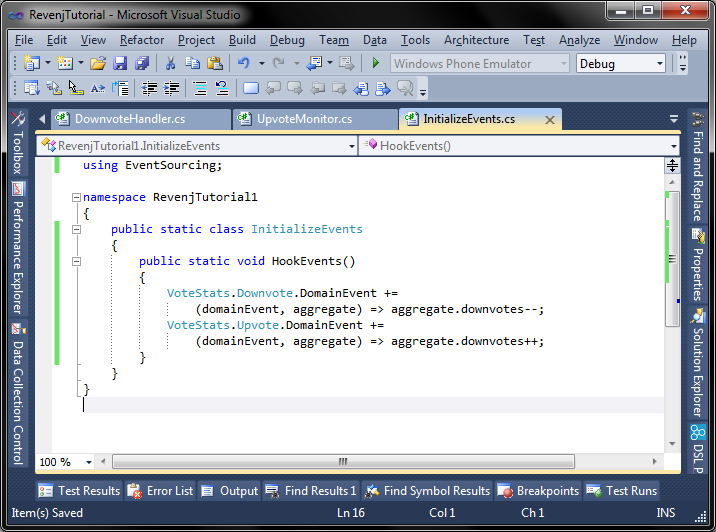
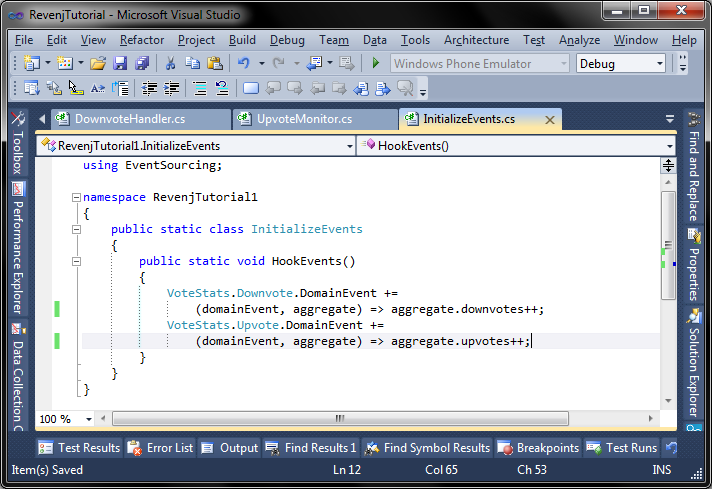
Aggregate events tutorial.
How to use aggregate events in Revenj.
This concludes event sourcing tutorials.

Changed region(s): [[0.0, 0.0, 1.0, 1.0], [0.0927, 0.7055, 0.1236, 0.7975]]

diff --git a/tutorials/revenj-tutorial-aggregate-events.md b/tutorials/revenj-tutorial-aggregate-events.md
@@ -1,0 +1,82 @@
+## Event sourcing with aggregate events
+
+In previous event sourcing [tutorial](revenj-tutorial-event-sourcing.md), we've explored domain events in Revenj/DSL Platform. There is also a special kind of domain event, which is tied to an aggregate. Due to still ongoing research, its DSL representation will probably change and those two separate concepts will probably end up with a same grammar. 
+
+###Aggregate events in DSL
+
+But let's explore the current usage to understand the features they offer and how to implement it. We'll write DSL similar to the previous one.
+
+    module EventSourcing {
+      aggregate VoteStats(topic) {
+        string topic;
+        int upvotes;
+        int downvotes;
+      }
+      event VoteStats.Upvote {
+        async;
+      }
+      event VoteStats.Downvote;
+    }
+
+An interesting difference is that previous events had a field by which they identified related aggregate (`string(200) topic`), while here they are defined for some aggregate. As such they will have additional special field in database and .NET class. Let's take a look at the database:
+
+![Aggregate domain event in Postgres](pictures/aggregate-events-postgres.png)
+
+We will see same fields as before, a name matching the DSL and an additional *aggregate\_uri* field. This is identity of the referenced aggregate root. While we could use actual primary key and referenced the aggregate, basic premise behind events is that they are immutable once created. Even if we delete the referencing aggregate from the system we still want events "referencing" that aggregate to remain. Thus, referential integrity is somewhat relaxed which could be improved slightly in the future, but for now it's like this.
+
+###Handling aggregate events in code
+
+.NET classes are nested inside aggregate and code for previous tutorial will still work, after we rename *Upvote* and *Downvote* to *VoteStats.Upvote* and *VoteStats.Downvote*. But those event handlers are stateful, in a sense they can reference services and change the state of the database (as the current implementation does). If we want to have an domain event which can be replayed, we need to have a "handler" which only affects referenced aggregate root.
+While there is no way to enforce such a constraint in an imperative language, in practice this means that we need to define replayable event handler differently:
+
+![Replayable event handler](pictures/hooking-up-events.png)
+
+To get this working we need to initialize it during application startup. An interesting effect will happen now that we have one async and one synchronous event.
+
+###How everything works together
+
+Since upvote is asynchronous, aggregate root will not be updated in the database, but new events will be created in it. Also, database view *unprocessed event* for that aggregate will now look like:
+
+![Unprocessed events in Postgres](pictures/unprocessed-events.png)
+
+This will be used to fully reconstruct aggregate to its current state if we load it by identity. In practice this means that `IRepository<VoteStats>` `Find` method will do a database query for requested aggregates joining with all unprocessed events and reconstruct aggregate by replaying all unprocessed events on it. This is hidden away in auto-maintained repository (more glue code which the developer doesn't need to write). All he needs to do is hook-up event handler as described above. It's also interesting to see how object-relational features of Postgres are utilized, where only one query is sent to the database, regardless of how many aggregate events exists. This makes it very performant, while complexity to the developer is not increased.
+
+**Note: Currently `Query` API for *VoteStats* will not reconstruct *VoteStats* fully, but will just use current snapshot in the database.**
+
+Since downvote event is synchronous, our previous handler suffers from same problems as before (concurrency), but had a nice side-effect. Invoking a synchronous event will flush all unprocessed asynchronous events to the database. This doesn't have to do much with the Revenj, as it has to do with the current repository implementation DSL Platform provides.
+
+In the end, developers can choose how they want to model the domain; repository implementation is just the reflection of the current model, which does all the heavy lifting, while running on top of Revenj.
+
+As stated before, DSL Platform is all about providing best-patterns implementation. With better understanding of events, aggregate events, requirements for the repositories, we expect somewhere down the line to have a merger of events with aggregate events, at least on the DSL level.
+
+###Trying it out
+
+So let's write some code to see how this behaves in practice. Instead of consuming it as REST service, let's add some test and work directly on the server:
+
+![Adding test project](pictures/test-project-events.png)
+
+We'll also use a Revenj-core which is somewhat optimized for use as a library:
+
+![Downloading Revenj core](pictures/revenj-core.png)
+
+Let's hook up everything in test project:
+
+![Downloading Revenj core](pictures/test-project-events.png)
+
+We should add reference to the `RevenjTutorial` project, `Revenj.Core` in dependencies/Server, `NGS.DomainPatterns.Interface` to access the signatures, generated model and we should be ready to go. Let's write a test which will initialize the Revenj instance, hook up our aggregate event handlers, create an aggregate and apply two async events on it. Let's also write an extension method to ease the use of API somewhat, at the end of the test. We should have something like this:
+
+![Aggregate event test](pictures/testing-aggregate-events.png)
+ 
+We can see that the `Find` method will fully reconstruct the aggregate, while the `Query` method will see the snapshot in the database. Let's see how this looks in [PgAdmin](http://www.pgadmin.org/):
+
+![Aggregate event in PgAdmin](pictures/pgadmin-aggregate-events.png)
+
+We see our snapshot version in the database, and two unprocessed events created per aggregate. If we add a downvote event to our test and check it again, we will now see that snapshot is up to date, since downvote event is not asynchronous and while processing it also marked previous events as processed.
+
+![Executing synchronous event](pictures/downvote-and-sync.png)
+
+If we check the database we'll see up-to-date info:
+
+![Up-to-date database](pictures/up-to-date-database-event.png)
+
+This should get us started on using aggregate events in Revenj.

diff --git a/tutorials/revenj-tutorial-event-sourcing.md b/tutorials/revenj-tutorial-event-sourcing.md
@@ -92,13 +92,14 @@ Another issue is that we are running this service outside of transactions, which
 
 ###Processing Domain Events
 
-We also didn't touch the notion of event replay-ability, but will do that in the next tutorial. For now, let's finish up with sending some events to the server with Fiddler. REST API for events is available by default in `DomainCommands.cs` from the plugins rest commands project. If we look at the signature and the implementation, we will see a reoccurring pattern. Service signature:
+We also didn't touch the notion of event replay-ability, but will do that in the next [tutorial](revenj-tutorial-aggregate-events.md). For now, let's finish up with sending some events to the server with Fiddler. REST API for events is available by default in `DomainCommands.cs` from the plugins rest commands project. If we look at the signature and the implementation, we will see a reoccurring pattern. Service signature:
 
     [WebInvoke(Method="POST", UriTemplate="/submit/{domainEvent}?result={result}")]
     Stream SubmitEvent(string domainEvent, string result, Stream body);
 
-translates the url to correct domain event type, deserializes it from provided POST body using specified Content-Type header (or as XML by default) and sends it down to plugin server command: `SubmitEvent`
-`SubmitEvent` is similar as previous command in a sense that it's a generic command which does basic validations, permission checks and just pass it to the appropriate service - `IDomainEventStore` which looks like:
+translates the url to correct domain event type, deserializes it from provided POST body using specified Content-Type header (or as XML by default) and sends it down to the plugin server command: `SubmitEvent`.
+
+`SubmitEvent` is similar as previous command in a sense that it's a generic command which does basic validations, permission checks and just pass it to the appropriate service - in this case `IDomainEventStore`, which looks like:
 
     public interface IDomainEventStore
     {
@@ -129,13 +130,13 @@ We have extended module *EventSourcing* with a new aggregate root which has prim
 
 ![Mutating domain event](pictures/event-return-instance-handler.png)
 
-Where we create a customer in event handler and mutate the event to set the value of new id. We can also show how to write extension methods on top of generated classes. There are several ways to extend the behavior of automatically maintained model and this is one of them (ignore for now that it would be much easier just to sanitize name within the handler, the main point is that we now have SanitizeName method on top of *Customer* class created from the model).
+where we create a customer in the event handler and mutate the event to set the value of a new id. We can also show how to write extension methods on top of generated classes. There are several ways to extend the behavior of automatically maintained model and this is one of them (ignore for now that it would be much easier just to sanitize name within the handler, the main point is that we now have SanitizeName method on top of *Customer* class created from the model).
 Let's send some event down the write and see how it behaves:
 
 ![Message to REST service](pictures/event-instance-fiddler.png)
 
-In http response we can see that the event has been populated by the server with several fields, but most importantly by id field for the identity of the new customer. If we do a lookup for the customer by the provided identity we get a sanitized newly created customer:
+In the http response we can see that the event has been populated by the server with several fields, but most importantly with id field for the identity of the new customer. If we do a lookup for the customer by the provided identity we get a sanitized newly created customer:
 
 ![Loading created customer](pictures/event-customer-sanitized.png)
 
-*If you have issues with id not being assigned/customer not being created, it's probably due to event handler not being picked up during initialization, probably because DLL was not in the correct folder, so check output folder for the project that it goes to the dependencies/Server folder (to keep it simple for now).*
+*If you have issues with id not being assigned/customer not being created, it's probably due to event handler not being picked up during initialization. This usually happens because DLL was not in the correct folder, so check the output folder for the project that it goes to the dependencies/Server folder (to keep it simple for now).*

diff --git a/README.md b/README.md
@@ -5,7 +5,8 @@ C# backend components with deep DSL Platform integration.
 ##Tutorials:
 
  * [Setting up Visual studio and REST server](tutorials/revenj-tutorial-setup.md)
- * [Basic Event sourcing in Revenj](tutorials/revenj-tutorial-event-sourcing.md)
+ * [Event sourcing in Revenj](tutorials/revenj-tutorial-event-sourcing.md)
+ * [Using advanced Event sourcing features in Revenj](tutorials/revenj-tutorial-aggregate-events.md)
 
 ##Infrastructure for invasive software composition with DSL Platform C# compiler:
 
